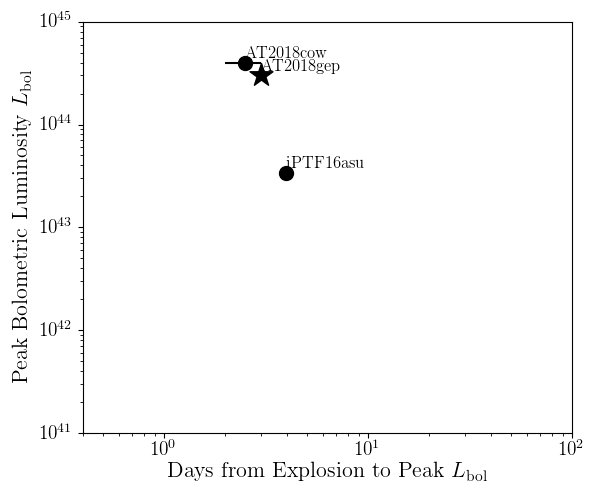
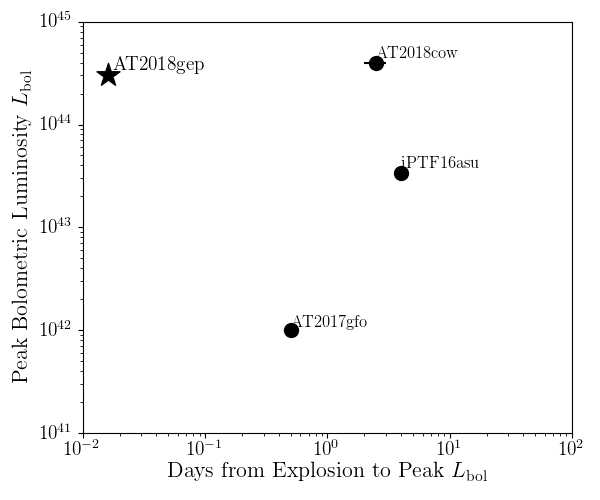
plot the spectral sequence

diff --git a/paper_plots/spec_sequence.py b/paper_plots/spec_sequence.py
@@ -1,0 +1,55 @@
+""" Plot the spectral sequence """
+
+import matplotlib.pyplot as plt
+plt.rc("font", family="serif")
+plt.rc("text", usetex=True)
+from mpl_toolkits.axes_grid1.inset_locator import inset_axes
+from mpl_toolkits.axes_grid1.inset_locator import mark_inset
+import numpy as np
+from astropy.table import Table
+from astropy.cosmology import Planck15
+import glob
+
+# We have to apply offsets, because the spectra are too close to each other
+
+fig,ax = plt.subplots(1,1,figsize=(6,10))
+
+files = glob.glob("/Users/annaho/Dropbox/Projects/Research/ZTF18abukavn/data/spec/ZTF18abukavn/*.ascii")
+
+t0 = 2458370.6634 # in JD
+for f in files:
+    # In Dan's 18cow paper, he interpolates over host narrow features
+    dat = np.loadtxt(f)
+    wl = dat[:,0]
+    flux_raw = dat[:,1]
+
+    # If the spectra are from LT, then you multiply by 1E-15?
+    tel = f.split("_")[2]
+    if tel == 'LT':
+        flux = flux_raw*1E-15
+    elif tel == 'P200':
+        flux = flux_raw
+    elif tel == 'Keck1':
+        flux = flux_raw
+    elif tel == 'DCT':
+        flux = flux_raw
+    elif tel == 'NOT':
+        flux = flux_raw
+    elif tel == 'P60':
+        flux = flux_raw
+
+    # Plot the spectrum
+    ax.plot(wl, flux, c='k', alpha=0.7, drawstyle='steps-mid')
+
+ax.set_ylabel(
+    r"Flux $f_{\lambda}$ (erg cm${}^{-2}$ s$^{-1}$ \AA$^{-1}$)", fontsize=16)
+ax.set_xlabel(
+        r"Observed Wavelength (\AA)", fontsize=16)
+ax.yaxis.set_tick_params(labelsize=14)
+ax.xaxis.set_tick_params(labelsize=14)
+#ax.legend(loc='upper right', fontsize=12)
+#ax.set_xscale('log')
+
+plt.tight_layout()
+#plt.savefig("lc.png")
+plt.show()

diff --git a/paper_plots/lum_risetime.py b/paper_plots/lum_risetime.py
@@ -14,13 +14,13 @@ fig,ax = plt.subplots(1,1,figsize=(6,5))
 # let's say 3 days for now, but this is a placeholder until we get the
 # bolometric light curve
 # the luminosity is a placeholder as well!
-trise = 3
+trise = 1391.0399966526045 / 86400 # convert from seconds to days
 plum = 3E44
 ax.scatter(
         trise, plum, marker='*', s=300, 
         facecolors='black', edgecolors='black')
 ax.text(
-        trise, plum, "AT2018gep", fontsize=12, 
+        trise*1.1, plum, "AT2018gep", fontsize=14, 
         verticalalignment='bottom', 
         horizontalalignment='left')
 
@@ -54,9 +54,21 @@ ax.text(
         verticalalignment='bottom', 
         horizontalalignment='left')
 
+# KN (AT2017gfo)
+plum = 1E42
+trise = 0.5
+ax.scatter(
+        trise, plum, 
+        marker='o', s=100, facecolor='black', edgecolor='black')
+ax.text(
+        trise, plum, "AT2017gfo", fontsize=12, 
+        verticalalignment='bottom', 
+        horizontalalignment='left')
+
+
 
 ax.set_ylim(1E41, 1E45)
-ax.set_xlim(0.4, 100)
+ax.set_xlim(0.01, 100)
 ax.set_yscale('log')
 ax.set_xscale('log')
 ax.set_ylabel("Peak Bolometric Luminosity $L_\mathrm{bol}$", fontsize=16)

diff --git a/paper_plots/velocity.py b/paper_plots/velocity.py
@@ -13,7 +13,14 @@ DATA_DIR = "/Users/annaho/Dropbox/Projects/Research/ZTF18abukavn/data"
 
 
 def plot_18gep():
-    """ Temporary values from Ragnhild """
+    # From Avishay
+    dt = np.array([2.07, 4.25])
+    vel = np.array([35000, 25000]) / 1E3
+    plt.scatter(
+            dt, vel, marker='s', facecolor='white', 
+            edgecolor='k', s=100, lw=2)
+
+    # From Ragnhild
     dt = np.array([4, 9, 11.5, 16.5, 22])
     vel = np.array([30000, 23000, 24000, 22000, 22000])/1E3
     evel = np.array([1000, 4000, 2000, 1000, 2000])/1E3

diff --git a/paper_plots/extrapolate_size.py b/paper_plots/extrapolate_size.py
@@ -40,6 +40,8 @@ if __name__=="__main__":
 
     # Functional form:
     # -2.63E14 * x**2 + 6.12E14 * x + 3.21E14
+    ax.axhline(y=3.21E14, ls='--', c='k')
+    ax.text(6, 3.5E14, r"$R_0 = 3.2 \times 10^{14}\,\mathrm{cm}$", fontsize=12)
 
     ax.set_ylabel("Photospheric Radius (cm)", fontsize=16)
     ax.set_xlabel(
